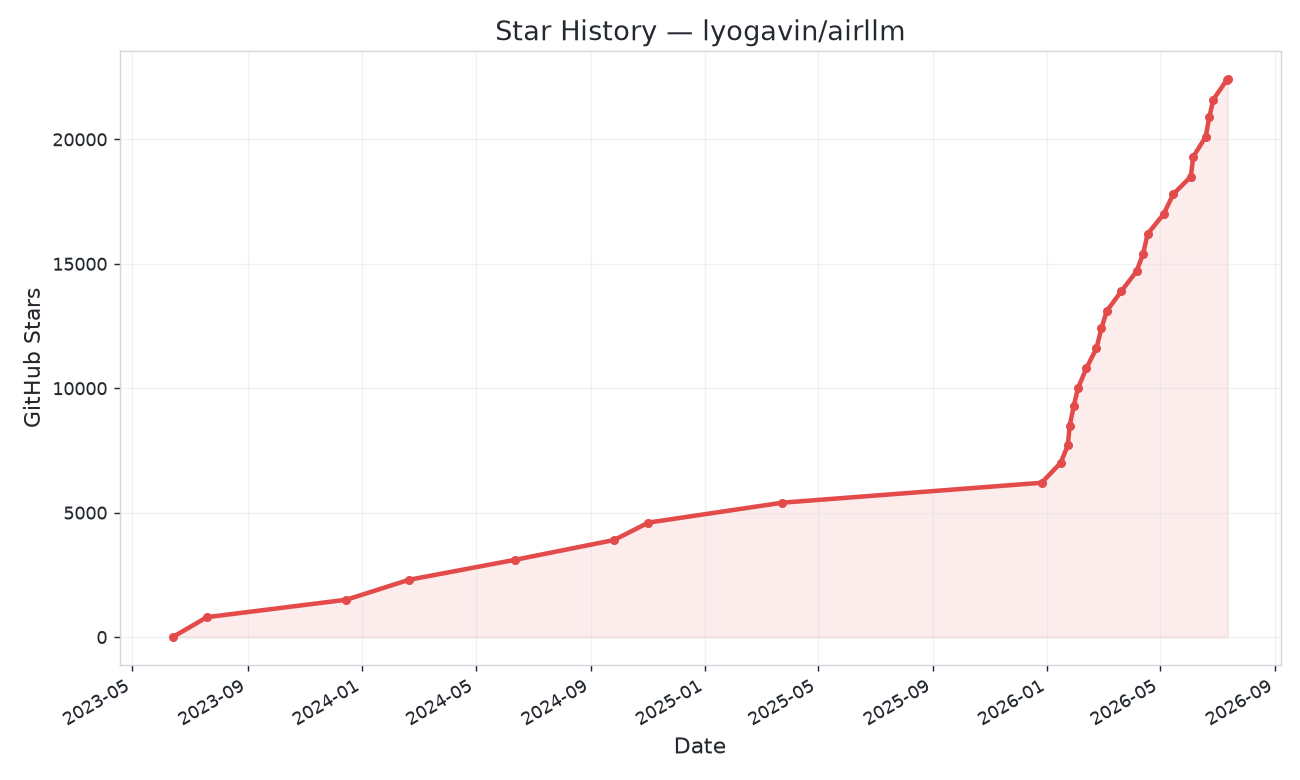
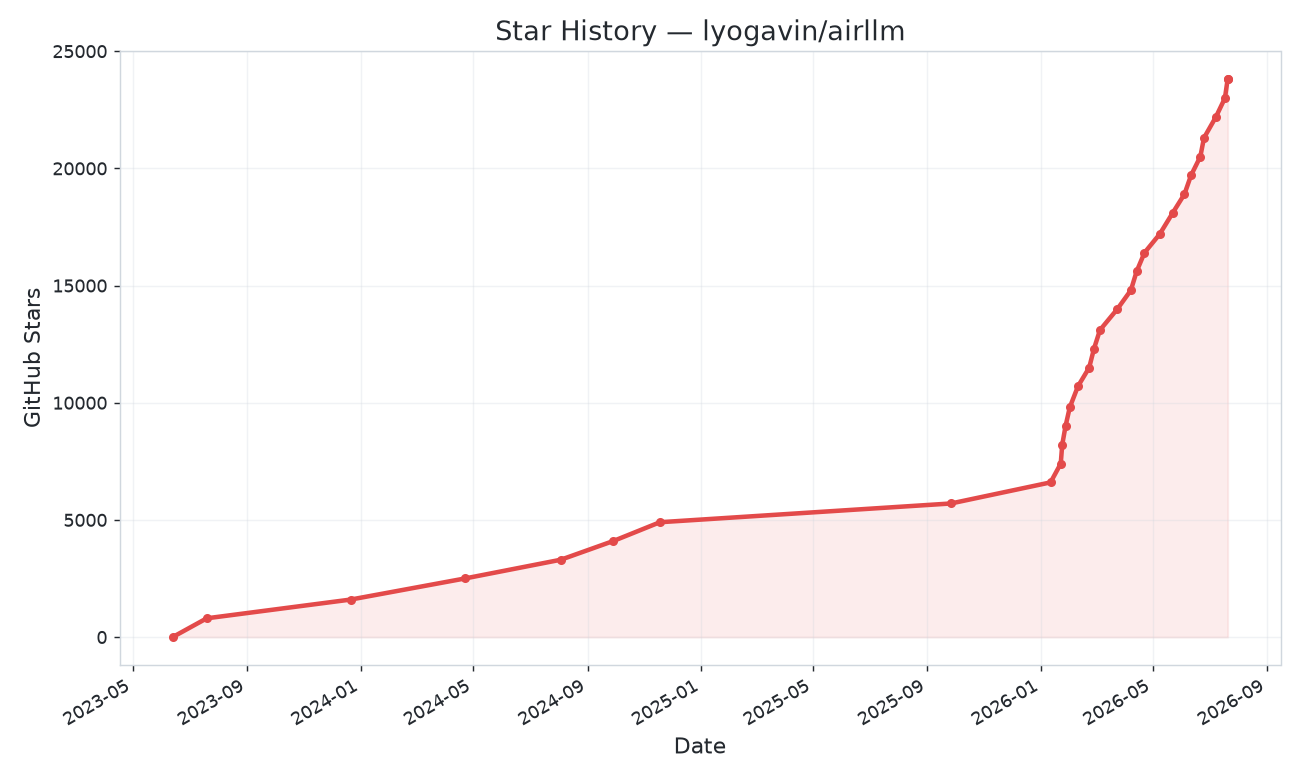
Merge pull request #307 from lyogavin/fix/star-history-pat
fix(ci): use collaborator PAT for star history refresh

Pull request: fix(ci): use collaborator PAT for star history refresh
## Summary
- Refresh Star History has failed daily since ~July 13 with HTTP 403 on GET /repos/.../stargazers, after [GitHub restricted that endpoint to admins/collaborators](https://github.blog/changelog/2026-06-30-upcoming-access-restrictions-to-public-api-endpoints-and-ui-views/).
- The Actions GITHUB_TOKEN is an installation token and cannot list stargazers; switch the generate step to secrets.STAR_HISTORY_TOKEN and improve the script's 403 error message.

## Test plan
- [ ] Create a collaborator/admin PAT (fine-grained Metadata:read on this repo, or classic public_repo)
- [ ] `gh secret set STAR_HISTORY_TOKEN`
- [ ] Merge this PR
- [ ] `gh workflow run "Refresh Star History"` and confirm the generate + commit steps succeed

diff --git a/scripts/gen_star_history.py b/scripts/gen_star_history.py
@@ -16,6 +16,7 @@ import json
 import math
 import os
 import sys
+import urllib.error
 import urllib.request
 
 REPO = sys.argv[1] if len(sys.argv) > 1 else os.environ.get("REPO", "lyogavin/airllm")
@@ -36,8 +37,23 @@ def gh(url, accept="application/vnd.github+json"):
     if TOKEN:
         headers["Authorization"] = f"Bearer {TOKEN}"
     req = urllib.request.Request(url, headers=headers)
-    with urllib.request.urlopen(req, timeout=30) as r:
-        return json.load(r)
+    try:
+        with urllib.request.urlopen(req, timeout=30) as r:
+            return json.load(r)
+    except urllib.error.HTTPError as e:
+        body = e.read().decode("utf-8", errors="replace")
+        try:
+            msg = json.loads(body).get("message", body)
+        except json.JSONDecodeError:
+            msg = body
+        hint = ""
+        if e.code == 403 and "stargazers" in url:
+            hint = (
+                "\nGitHub restricts /stargazers to admins/collaborators; the "
+                "Actions GITHUB_TOKEN cannot access it. Use a collaborator PAT "
+                "via the STAR_HISTORY_TOKEN secret."
+            )
+        raise SystemExit(f"GitHub API {e.code} for {url}: {msg}{hint}") from e
 
 
 def main():